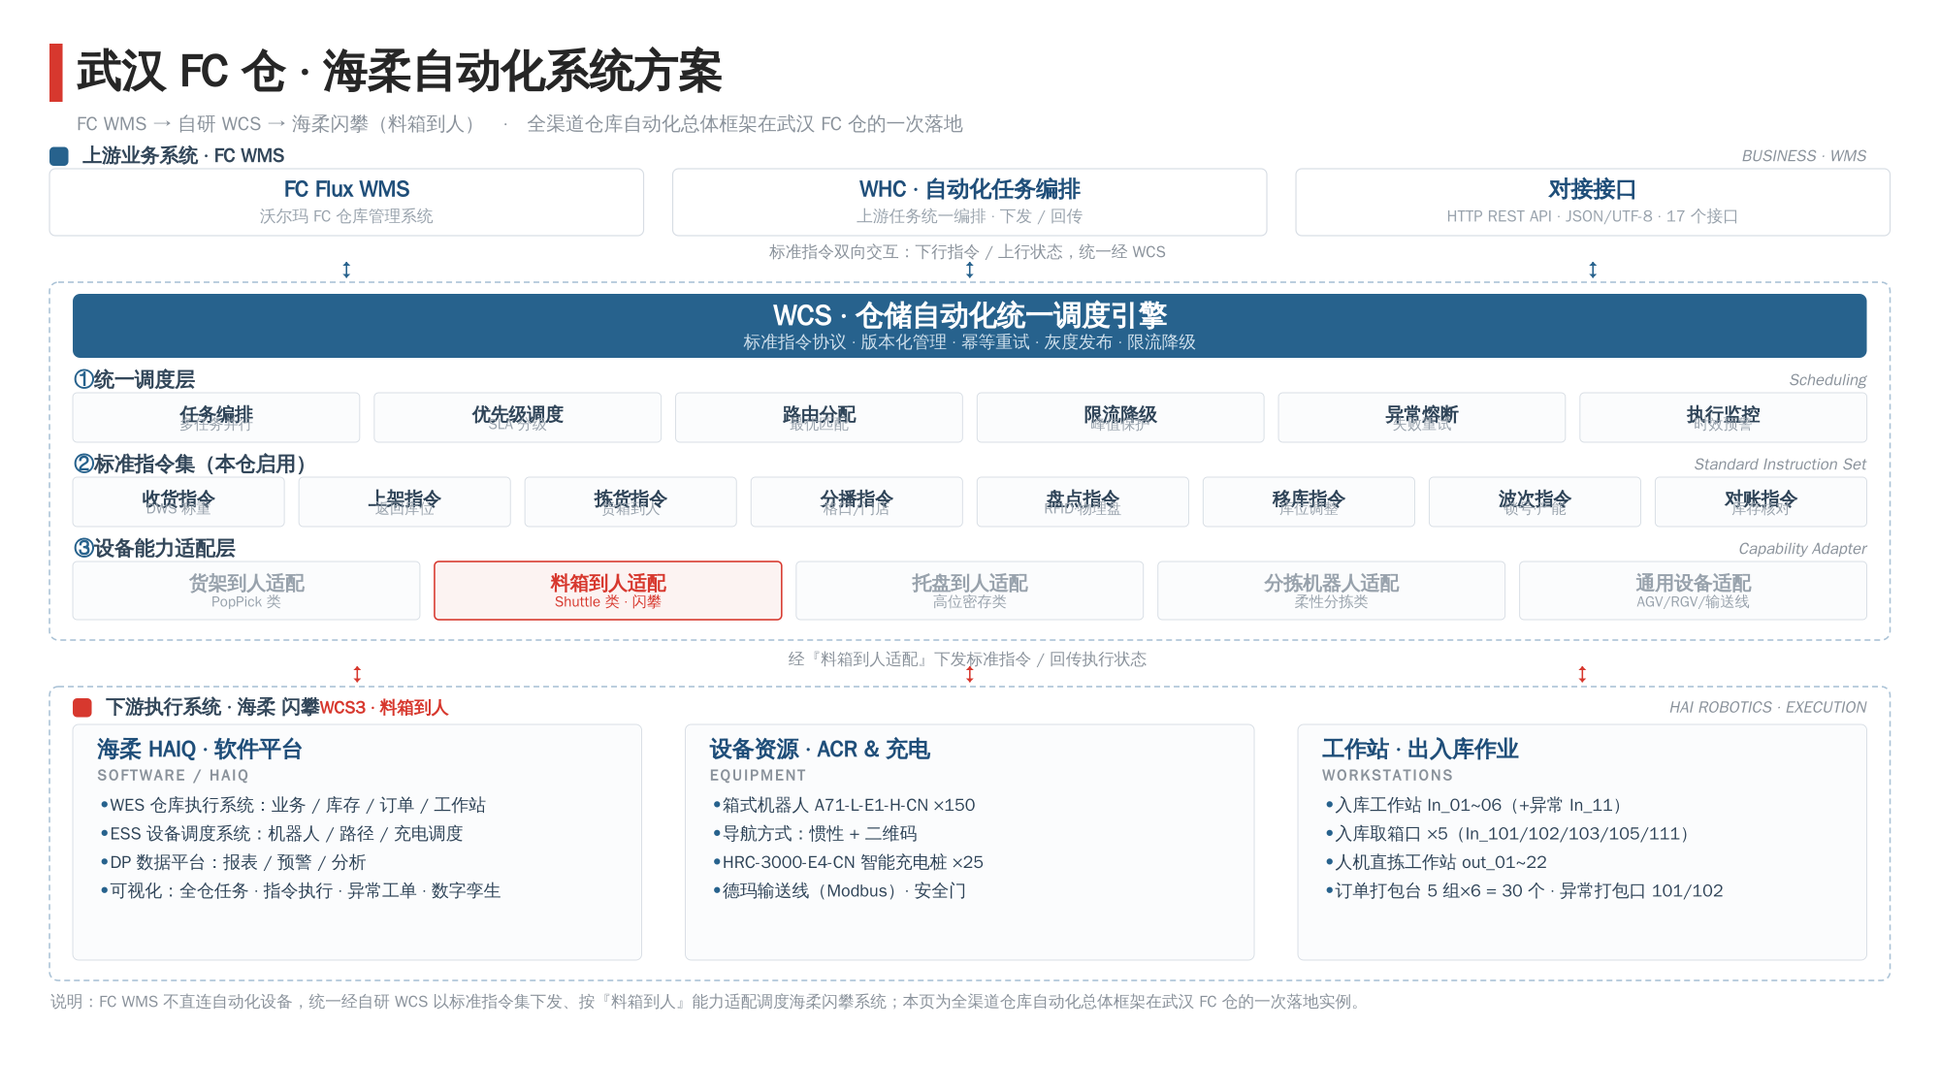
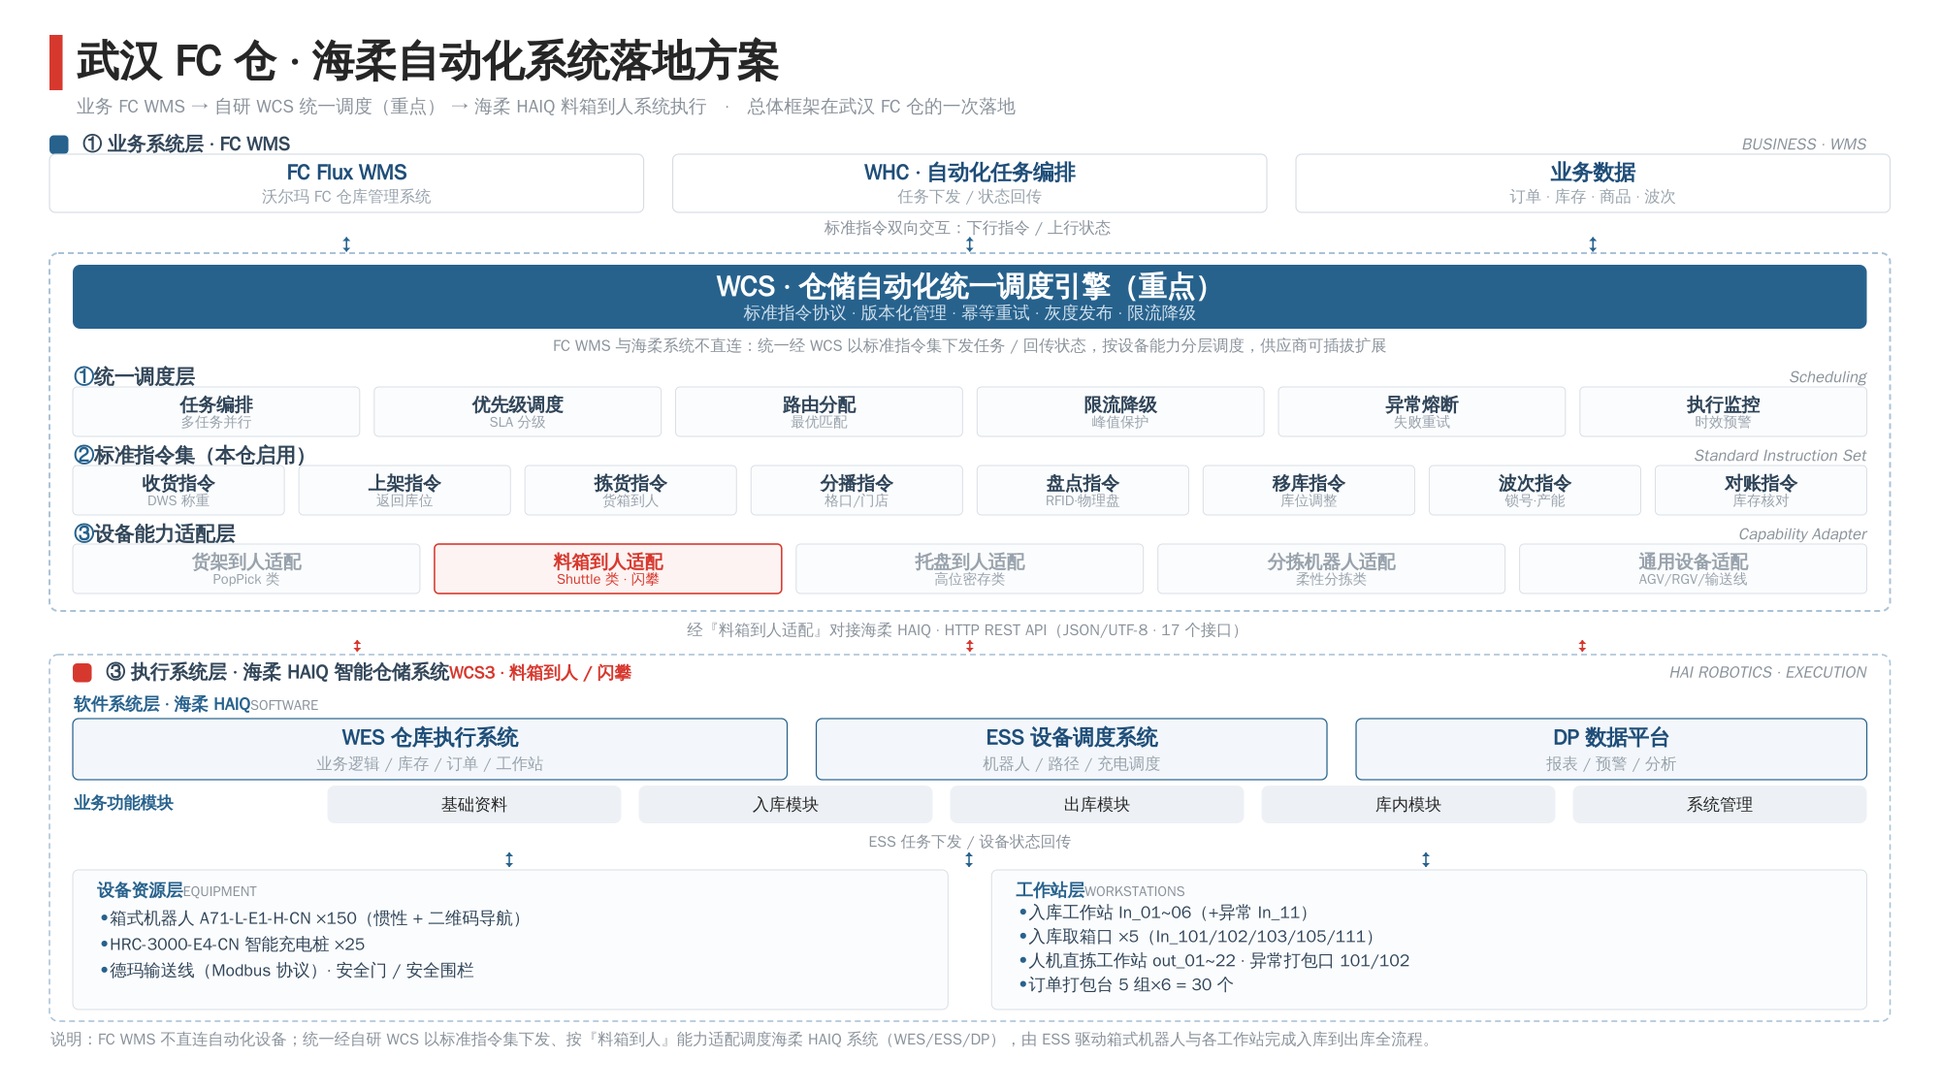
修订落地页：海柔系统改为分层架构（按原始架构图），WCS 强化为重点
- 第三块"海柔 HAIQ 系统"由左中右三栏改为分层：软件系统层(WES/ESS/DP+业务功能模块)
  在上，经 ESS 任务下发/状态回传，连接下方物理层（设备资源层 | 工作站层），还原最初架构图
- 第一块 FC WMS 保持简洁；第二块 WCS 标注"（重点）"，引擎条+协议+价值说明+三子层更详细
- 卡片标题/副标题间距优化；单页 16:9，全部为原生可编辑对象（无图片）

Claude-Session: https://claude.ai/code/session_01DHdNJWfGbJLzTUwy9LxjZR

diff --git a/slide-source/slide.js b/slide-source/slide.js
@@ -1,11 +1,11 @@
-// 武汉 FC 仓 · 海柔自动化系统方案 — FC WMS → WCS → 海柔(闪攀) 三层落地
-// 总体框架（全渠道 WCS 产品方案）在武汉 FC 仓的一次落地实例。风格与总框架一致。
+// 武汉 FC 仓 · 海柔自动化系统落地方案
+// 三层：① FC WMS（业务）② 自研 WCS（统一调度·重点·详细）③ 海柔 HAIQ 系统（按原始架构图分层）
 const CANVAS = { w: 13.333, h: 7.5 };
 const C = {
   INK: "262626", RED: "D7382E", STEEL: "27628D", STEEL_D: "1E4E73",
   NAVY: "1F4E79", CARDT: "2F4458", SUB: "98A2AC", LBL: "8A929B",
   BORD: "D7DDE4", DASH: "AAC2D6", CARDF: "FBFCFD", CHIP: "EDF1F5",
-  SECT: "33475A", ENGSUB: "CFE0EC", REDF: "FCF3F2", BG: "FFFFFF", WHITE: "FFFFFF",
+  SECT: "33475A", ENGSUB: "CFE0EC", REDF: "FCF3F2", HAIQF: "F3F7FB", BG: "FFFFFF", WHITE: "FFFFFF",
 };
 const FONT = "Microsoft YaHei";
 const FONT_EN = "Arial";
@@ -17,120 +17,141 @@ function buildOps() {
   const text = (o) => ops.push({ k: "text", align: "left", valign: "middle", margin: 0, ...o });
   const bullets = (o) => ops.push({ k: "bullets", ...o });
 
-  const X0 = 0.34, XR = 12.99, CW = XR - X0;     // 12.65
-  const inX = 0.50, inW = 12.33, inR = inX + inW; // WCS/Tier3 inner
+  const X0 = 0.34, XR = 12.99, CW = XR - X0;      // 12.65
+  const inX = 0.50, inW = 12.33, inR = inX + inW; // 12.83
 
-  // ===== TITLE =====
-  rect({ x: 0.34, y: 0.30, w: 0.09, h: 0.40, fill: C.RED });
-  text({ x: 0.52, y: 0.26, w: 11.5, h: 0.46, runs: [{ t: "武汉 FC 仓 · 海柔自动化系统方案", font: FONT, size: 22, bold: true, color: C.INK }] });
-  text({ x: 0.52, y: 0.74, w: 12.4, h: 0.22, runs: [{ t: "FC WMS → 自研 WCS → 海柔闪攀（料箱到人）　·　全渠道仓库自动化总体框架在武汉 FC 仓的一次落地", font: FONT, size: 9.5, color: C.LBL }] });
-
-  // section label helper (left zh [+tag] / right en)
-  const sect = (y, zh, en, tag) => {
-    rect({ x: X0, y: y + 0.03, w: 0.13, h: 0.13, r: 0.03, fill: C.STEEL });
+  // section label (square marker + zh [+tag] / right en)
+  const sect = (y, zh, en, tag, mk) => {
+    rect({ x: X0, y: y + 0.03, w: 0.13, h: 0.13, r: 0.03, fill: mk || C.STEEL });
     const runs = [{ t: zh, font: FONT, size: 9.5, bold: true, color: C.SECT }];
-    if (tag) runs.push({ t: "    " + tag, font: FONT, size: 8.5, bold: true, color: C.RED });
-    text({ x: X0 + 0.22, y, w: 9, h: 0.18, runs });
+    if (tag) runs.push({ t: "   " + tag, font: FONT, size: 8.5, bold: true, color: C.RED });
+    text({ x: X0 + 0.22, y, w: 9.5, h: 0.18, runs });
     if (en) text({ x: inR - 3.4, y, w: 3.4, h: 0.18, align: "right", runs: [{ t: en, font: FONT_EN, size: 8, italic: true, color: C.LBL }] });
   };
-  // card grid helper
-  const cardGrid = (items, x0, y, h, n, totW, big) => {
+  // small inner sub-layer label (within 海柔 block)
+  const subLayer = (x, y, w, zh, en) => {
+    text({ x, y, w, h: 0.16, runs: [{ t: zh, font: FONT, size: 8.5, bold: true, color: C.STEEL }, { t: "   " + en, font: FONT_EN, size: 7, color: C.LBL }] });
+  };
+  // card grid
+  const cardGrid = (items, x0, y, h, n, totW, ts) => {
     const g = 0.10, cw = (totW - (n - 1) * g) / n;
     items.forEach((it, i) => {
       const x = x0 + i * (cw + g);
       rect({ x, y, w: cw, h, r: 0.03, fill: it.hi ? C.REDF : C.CARDF, line: { color: it.hi ? C.RED : C.BORD, width: it.hi ? 1.0 : 0.6 } });
-      text({ x, y: y + 0.05, w: cw, h: 0.20, align: "center", runs: [{ t: it.t, font: FONT, size: big ? 9.5 : 9, bold: true, color: it.hi ? C.RED : (it.dim ? C.SUB : C.CARDT) }] });
-      text({ x, y: y + h - 0.21, w: cw, h: 0.17, align: "center", runs: [{ t: it.s, font: FONT, size: 7.3, color: it.hi ? C.RED : C.SUB }] });
+      text({ x, y: y + 0.045, w: cw, h: 0.155, align: "center", runs: [{ t: it.t, font: FONT, size: ts || 9, bold: true, color: it.hi ? C.RED : (it.dim ? C.SUB : C.CARDT) }] });
+      if (it.s) text({ x, y: y + h - 0.165, w: cw, h: 0.13, align: "center", runs: [{ t: it.s, font: FONT, size: 7, color: it.hi ? C.RED : C.SUB }] });
     });
   };
 
-  // ===== TIER 1 — 上游业务系统 / FC WMS =====
-  sect(0.98, "上游业务系统 · FC WMS", "BUSINESS · WMS");
+  // ===== TITLE =====
+  rect({ x: 0.34, y: 0.24, w: 0.09, h: 0.38, fill: C.RED });
+  text({ x: 0.52, y: 0.20, w: 11.6, h: 0.44, runs: [{ t: "武汉 FC 仓 · 海柔自动化系统落地方案", font: FONT, size: 21, bold: true, color: C.INK }] });
+  text({ x: 0.52, y: 0.63, w: 12.4, h: 0.20, runs: [{ t: "业务 FC WMS  →  自研 WCS 统一调度（重点）  →  海柔 HAIQ 料箱到人系统执行　·　总体框架在武汉 FC 仓的一次落地", font: FONT, size: 9, color: C.LBL }] });
+
+  // ===== ① FC WMS =====
+  sect(0.90, "① 业务系统层 · FC WMS", "BUSINESS · WMS");
   const t1 = [
     { t: "FC Flux WMS", s: "沃尔玛 FC 仓库管理系统" },
-    { t: "WHC · 自动化任务编排", s: "上游任务统一编排 · 下发 / 回传" },
-    { t: "对接接口", s: "HTTP REST API · JSON/UTF-8 · 17 个接口" },
+    { t: "WHC · 自动化任务编排", s: "任务下发 / 状态回传" },
+    { t: "业务数据", s: "订单 · 库存 · 商品 · 波次" },
   ];
-  const g1 = 0.20, w1 = (CW - 2 * g1) / 3;
-  const c1ctr = (i) => X0 + i * (w1 + g1) + w1 / 2;
+  const g1 = 0.20, w1 = (CW - 2 * g1) / 3, c1c = (i) => X0 + i * (w1 + g1) + w1 / 2;
   t1.forEach((b, i) => {
     const x = X0 + i * (w1 + g1);
-    rect({ x, y: 1.16, w: w1, h: 0.46, r: 0.04, fill: C.WHITE, line: { color: C.BORD, width: 0.75 } });
-    text({ x, y: 1.20, w: w1, h: 0.20, align: "center", runs: [{ t: b.t, font: FONT, size: 11, bold: true, color: C.NAVY }] });
-    text({ x, y: 1.40, w: w1, h: 0.17, align: "center", runs: [{ t: b.s, font: FONT, size: 8, color: C.SUB }] });
+    rect({ x, y: 1.06, w: w1, h: 0.40, r: 0.04, fill: C.WHITE, line: { color: C.BORD, width: 0.75 } });
+    text({ x, y: 1.09, w: w1, h: 0.19, align: "center", runs: [{ t: b.t, font: FONT, size: 10.5, bold: true, color: C.NAVY }] });
+    text({ x, y: 1.27, w: w1, h: 0.16, align: "center", runs: [{ t: b.s, font: FONT, size: 7.8, color: C.SUB }] });
   });
-  // connector 1
-  text({ x: 2.6, y: 1.66, w: 8.1, h: 0.14, align: "center", runs: [{ t: "标准指令双向交互：下行指令 / 上行状态，统一经 WCS", font: FONT, size: 8, color: C.LBL }] });
-  for (let i = 0; i < 3; i++) line({ x: c1ctr(i), y: 1.80, w: 0, h: 0.11, color: C.STEEL, width: 1, beginArrow: true, endArrow: true });
+  text({ x: 3.0, y: 1.50, w: 7.3, h: 0.13, align: "center", runs: [{ t: "标准指令双向交互：下行指令 / 上行状态", font: FONT, size: 7.8, color: C.LBL }] });
+  for (let i = 0; i < 3; i++) line({ x: c1c(i), y: 1.63, w: 0, h: 0.10, color: C.STEEL, width: 1, beginArrow: true, endArrow: true });
 
-  // ===== TIER 2 — WCS 统一调度引擎 =====
-  rect({ x: X0, y: 1.94, w: CW, h: 2.46, r: 0.06, fill: C.WHITE, line: { color: C.DASH, width: 1, dash: true } });
-  rect({ x: inX, y: 2.02, w: inW, h: 0.44, r: 0.05, fill: C.STEEL });
-  text({ x: inX, y: 2.06, w: inW, h: 0.22, align: "center", runs: [{ t: "WCS · 仓储自动化统一调度引擎", font: FONT, size: 14, bold: true, color: C.WHITE }] });
-  text({ x: inX, y: 2.27, w: inW, h: 0.16, align: "center", runs: [{ t: "标准指令协议 · 版本化管理 · 幂等重试 · 灰度发布 · 限流降级", font: FONT, size: 8.5, color: C.ENGSUB }] });
+  // ===== ② WCS（重点）=====
+  rect({ x: X0, y: 1.74, w: CW, h: 2.46, r: 0.06, fill: C.WHITE, line: { color: C.DASH, width: 1.25, dash: true } });
+  rect({ x: inX, y: 1.82, w: inW, h: 0.44, r: 0.05, fill: C.STEEL });
+  text({ x: inX, y: 1.86, w: inW, h: 0.22, align: "center", runs: [{ t: "WCS · 仓储自动化统一调度引擎（重点）", font: FONT, size: 14, bold: true, color: C.WHITE }] });
+  text({ x: inX, y: 2.07, w: inW, h: 0.16, align: "center", runs: [{ t: "标准指令协议 · 版本化管理 · 幂等重试 · 灰度发布 · 限流降级", font: FONT, size: 8.5, color: C.ENGSUB }] });
+  text({ x: inX, y: 2.30, w: inW, h: 0.15, align: "center", runs: [{ t: "FC WMS 与海柔系统不直连：统一经 WCS 以标准指令集下发任务 / 回传状态，按设备能力分层调度，供应商可插拔扩展", font: FONT, size: 7.8, color: C.LBL }] });
 
-  sect2(ops, 2.52, "①", "统一调度层", "Scheduling", inX, inR, C);
+  sect2(ops, 2.50, "①", "统一调度层", "Scheduling", inX, inR, C);
   cardGrid([
     { t: "任务编排", s: "多任务并行" }, { t: "优先级调度", s: "SLA 分级" }, { t: "路由分配", s: "最优匹配" },
     { t: "限流降级", s: "峰值保护" }, { t: "异常熔断", s: "失败重试" }, { t: "执行监控", s: "时效预警" },
-  ], inX, 2.70, 0.34, 6, inW);
+  ], inX, 2.66, 0.34, 6, inW);
 
-  sect2(ops, 3.10, "②", "标准指令集（本仓启用）", "Standard Instruction Set", inX, inR, C);
+  sect2(ops, 3.04, "②", "标准指令集（本仓启用）", "Standard Instruction Set", inX, inR, C);
   cardGrid([
     { t: "收货指令", s: "DWS 称重" }, { t: "上架指令", s: "返回库位" }, { t: "拣货指令", s: "货箱到人" }, { t: "分播指令", s: "格口/门店" },
     { t: "盘点指令", s: "RFID·物理盘" }, { t: "移库指令", s: "库位调整" }, { t: "波次指令", s: "锁号·产能" }, { t: "对账指令", s: "库存核对" },
-  ], inX, 3.28, 0.34, 8, inW);
+  ], inX, 3.20, 0.34, 8, inW);
 
-  sect2(ops, 3.68, "③", "设备能力适配层", "Capability Adapter", inX, inR, C);
+  sect2(ops, 3.58, "③", "设备能力适配层", "Capability Adapter", inX, inR, C);
   cardGrid([
     { t: "货架到人适配", s: "PopPick 类", dim: true },
     { t: "料箱到人适配", s: "Shuttle 类 · 闪攀", hi: true },
     { t: "托盘到人适配", s: "高位密存类", dim: true },
     { t: "分拣机器人适配", s: "柔性分拣类", dim: true },
     { t: "通用设备适配", s: "AGV/RGV/输送线", dim: true },
-  ], inX, 3.86, 0.40, 5, inW, true);
+  ], inX, 3.74, 0.34, 5, inW);
 
-  // connector 2
-  text({ x: 3.0, y: 4.46, w: 7.3, h: 0.14, align: "center", runs: [{ t: "经『料箱到人适配』下发标准指令 / 回传执行状态", font: FONT, size: 8, color: C.LBL }] });
-  const t3col = (i) => inX + i * ((inW - 0.6) / 3 + 0.30) + (inW - 0.6) / 6;
-  for (let i = 0; i < 3; i++) line({ x: t3col(i), y: 4.58, w: 0, h: 0.11, color: C.RED, width: 1, beginArrow: true, endArrow: true });
+  // connector 2 (WCS -> 海柔 HAIQ)
+  text({ x: 2.6, y: 4.26, w: 8.1, h: 0.14, align: "center", runs: [{ t: "经『料箱到人适配』对接海柔 HAIQ · HTTP REST API（JSON/UTF-8 · 17 个接口）", font: FONT, size: 7.8, color: C.LBL }] });
+  const haX = (i) => inX + i * ((inW - 0.6) / 3 + 0.30) + (inW - 0.6) / 6;
+  for (let i = 0; i < 3; i++) line({ x: haX(i), y: 4.40, w: 0, h: 0.08, color: C.RED, width: 1, beginArrow: true, endArrow: true });
 
-  // ===== TIER 3 — 海柔闪攀 料箱到人执行系统 =====
-  rect({ x: X0, y: 4.72, w: CW, h: 2.02, r: 0.06, fill: C.WHITE, line: { color: C.DASH, width: 1, dash: true } });
-  rect({ x: X0 + 0.16, y: 4.80, w: 0.13, h: 0.13, r: 0.03, fill: C.RED });
-  text({ x: X0 + 0.38, y: 4.77, w: 9, h: 0.18, runs: [
-    { t: "下游执行系统 · 海柔 闪攀", font: FONT, size: 9.5, bold: true, color: C.SECT },
-    { t: "    WCS3 · 料箱到人", font: FONT, size: 8.5, bold: true, color: C.RED },
-  ] });
-  text({ x: inR - 3.4, y: 4.77, w: 3.4, h: 0.18, align: "right", runs: [{ t: "HAI ROBOTICS · EXECUTION", font: FONT_EN, size: 8, italic: true, color: C.LBL }] });
+  // ===== ③ 海柔 HAIQ 系统（分层，按原始架构图）=====
+  rect({ x: X0, y: 4.50, w: CW, h: 2.52, r: 0.06, fill: C.WHITE, line: { color: C.DASH, width: 1, dash: true } });
+  rect({ x: X0 + 0.16, y: 4.56, w: 0.13, h: 0.13, r: 0.03, fill: C.RED });
+  text({ x: X0 + 0.38, y: 4.53, w: 9.5, h: 0.18, runs: [
+    { t: "③ 执行系统层 · 海柔 HAIQ 智能仓储系统", font: FONT, size: 9.5, bold: true, color: C.SECT },
+    { t: "   WCS3 · 料箱到人 / 闪攀", font: FONT, size: 8.5, bold: true, color: C.RED } ] });
+  text({ x: inR - 3.4, y: 4.53, w: 3.4, h: 0.18, align: "right", runs: [{ t: "HAI ROBOTICS · EXECUTION", font: FONT_EN, size: 8, italic: true, color: C.LBL }] });
 
-  const colW = (inW - 0.6) / 3;
-  const t3 = [
-    { t: "海柔 HAIQ · 软件平台", en: "SOFTWARE / HAIQ", rows: [
-      "WES 仓库执行系统：业务 / 库存 / 订单 / 工作站", "ESS 设备调度系统：机器人 / 路径 / 充电调度",
-      "DP 数据平台：报表 / 预警 / 分析", "可视化：全仓任务 · 指令执行 · 异常工单 · 数字孪生"] },
-    { t: "设备资源 · ACR & 充电", en: "EQUIPMENT", rows: [
-      "箱式机器人 A71-L-E1-H-CN ×150", "导航方式：惯性 + 二维码",
-      "HRC-3000-E4-CN 智能充电桩 ×25", "德玛输送线（Modbus）· 安全门"] },
-    { t: "工作站 · 出入库作业", en: "WORKSTATIONS", rows: [
-      "入库工作站 In_01~06（+异常 In_11）", "入库取箱口 ×5（In_101/102/103/105/111）",
-      "人机直拣工作站 out_01~22", "订单打包台 5 组×6 = 30 个 · 异常打包口 101/102"] },
+  // 软件系统层：WES（宽）/ ESS / DP
+  subLayer(inX, 4.76, 6, "软件系统层 · 海柔 HAIQ", "SOFTWARE");
+  const sw = [
+    { t: "WES 仓库执行系统", s: "业务逻辑 / 库存 / 订单 / 工作站", w: 4.91 },
+    { t: "ESS 设备调度系统", s: "机器人 / 路径 / 充电调度", w: 3.51 },
+    { t: "DP 数据平台", s: "报表 / 预警 / 分析", w: 3.51 },
   ];
-  t3.forEach((col, i) => {
-    const x = inX + i * (colW + 0.30);
-    rect({ x, y: 4.98, w: colW, h: 1.62, r: 0.04, fill: C.CARDF, line: { color: C.BORD, width: 0.6 } });
-    text({ x: x + 0.16, y: 5.04, w: colW - 0.3, h: 0.22, runs: [{ t: col.t, font: FONT, size: 11, bold: true, color: C.NAVY }] });
-    text({ x: x + 0.16, y: 5.26, w: colW - 0.3, h: 0.14, runs: [{ t: col.en, font: FONT_EN, size: 7.5, bold: true, color: C.LBL, sp: 1 }] });
-    bullets({ x: x + 0.18, y: 5.46, w: colW - 0.34, h: 1.05, font: FONT, size: 8.6, color: C.CARDT, spaceAfter: 4, items: col.rows });
+  let sx = inX;
+  sw.forEach((b) => {
+    rect({ x: sx, y: 4.94, w: b.w, h: 0.42, r: 0.04, fill: C.HAIQF, line: { color: C.STEEL, width: 0.8 } });
+    text({ x: sx, y: 4.97, w: b.w, h: 0.20, align: "center", runs: [{ t: b.t, font: FONT, size: 10.5, bold: true, color: C.NAVY }] });
+    text({ x: sx, y: 5.17, w: b.w, h: 0.16, align: "center", runs: [{ t: b.s, font: FONT, size: 7.8, color: C.SUB }] });
+    sx += b.w + 0.20;
   });
+  // 业务功能模块 chips
+  text({ x: inX, y: 5.42, w: 1.7, h: 0.20, runs: [{ t: "业务功能模块", font: FONT, size: 8.2, bold: true, color: C.STEEL }] });
+  const mods = ["基础资料", "入库模块", "出库模块", "库内模块", "系统管理"];
+  const mx0 = inX + 1.75, mtot = inR - mx0, mg = 0.12, mw = (mtot - (mods.length - 1) * mg) / mods.length;
+  mods.forEach((m, i) => {
+    const x = mx0 + i * (mw + mg);
+    rect({ x, y: 5.40, w: mw, h: 0.26, r: 0.05, fill: C.CHIP });
+    text({ x, y: 5.40, w: mw, h: 0.26, align: "center", runs: [{ t: m, font: FONT, size: 8.2, color: C.INK }] });
+  });
+  // connector software -> physical
+  text({ x: inX, y: 5.72, w: inW, h: 0.13, align: "center", runs: [{ t: "ESS 任务下发 / 设备状态回传", font: FONT, size: 7.6, color: C.LBL }] });
+  for (const cx of [3.5, 6.66, 9.8]) line({ x: cx, y: 5.86, w: 0, h: 0.10, color: C.STEEL, width: 1, beginArrow: true, endArrow: true });
+
+  // 物理层：设备资源层 | 工作站层
+  const pg = 0.30, pw = (inW - pg) / 2, pL = inX, pR = inX + pw + pg;
+  rect({ x: pL, y: 5.98, w: pw, h: 0.96, r: 0.04, fill: C.CARDF, line: { color: C.BORD, width: 0.6 } });
+  rect({ x: pR, y: 5.98, w: pw, h: 0.96, r: 0.04, fill: C.CARDF, line: { color: C.BORD, width: 0.6 } });
+  subLayer(pL + 0.16, 6.04, pw - 0.3, "设备资源层", "EQUIPMENT");
+  subLayer(pR + 0.16, 6.04, pw - 0.3, "工作站层", "WORKSTATIONS");
+  bullets({ x: pL + 0.18, y: 6.24, w: pw - 0.34, h: 0.66, font: FONT, size: 8.4, color: C.CARDT, spaceAfter: 3, items: [
+    "箱式机器人 A71-L-E1-H-CN ×150（惯性 + 二维码导航）", "HRC-3000-E4-CN 智能充电桩 ×25",
+    "德玛输送线（Modbus 协议）· 安全门 / 安全围栏" ] });
+  bullets({ x: pR + 0.18, y: 6.20, w: pw - 0.34, h: 0.74, font: FONT, size: 8.4, color: C.CARDT, spaceAfter: 2, items: [
+    "入库工作站 In_01~06（+异常 In_11）", "入库取箱口 ×5（In_101/102/103/105/111）",
+    "人机直拣工作站 out_01~22 · 异常打包口 101/102", "订单打包台 5 组×6 = 30 个" ] });
 
   // ===== NOTE =====
-  text({ x: X0, y: 6.82, w: CW, h: 0.4, valign: "top", runs: [{ t: "说明：FC WMS 不直连自动化设备，统一经自研 WCS 以标准指令集下发、按『料箱到人』能力适配调度海柔闪攀系统；本页为全渠道仓库自动化总体框架在武汉 FC 仓的一次落地实例。", font: FONT, size: 8, color: C.LBL }] });
+  text({ x: X0, y: 7.08, w: CW, h: 0.3, valign: "top", runs: [{ t: "说明：FC WMS 不直连自动化设备；统一经自研 WCS 以标准指令集下发、按『料箱到人』能力适配调度海柔 HAIQ 系统（WES/ESS/DP），由 ESS 驱动箱式机器人与各工作站完成入库到出库全流程。", font: FONT, size: 7.8, color: C.LBL }] });
 
   return ops;
 }
 
-// WCS sublayer label (①②③ + english) — kept separate to reuse exact framework style
 function sect2(ops, y, num, zh, en, inX, inR, C) {
   ops.push({ k: "text", align: "left", valign: "middle", margin: 0, x: inX, y, w: 6, h: 0.18, runs: [
     { t: num + "  ", font: FONT, size: 10, bold: true, color: C.STEEL }, { t: zh, font: FONT, size: 10, bold: true, color: C.SECT }] });

diff --git a/slide-source/README.md b/slide-source/README.md
@@ -3,15 +3,17 @@
 本目录生成 `../武汉FC仓海柔自动化系统方案.pptx`（16:9 宽屏，单页）。
 **全部元素均为 PowerPoint 原生可编辑对象（形状 / 文本框 / 连线 / 项目符号），无任何图片。**
 
-本页是「全渠道仓库自动化总体框架」在武汉 FC 仓的**一次落地**，主线为
-**FC WMS → 自研 WCS → 海柔闪攀（料箱到人）**，三层自上而下：
+本页是「全渠道仓库自动化总体框架」在武汉 FC 仓的**一次落地**，主线
+**FC WMS → 自研 WCS → 海柔 HAIQ 系统**，自上而下三大块：
 
-1. **上游业务系统 · FC WMS**：FC Flux WMS / WHC 自动化任务编排 / 对接接口（17 个）。
-2. **WCS · 仓储自动化统一调度引擎**：①统一调度层 ②标准指令集（本仓启用）③设备能力适配层；
-   其中"料箱到人适配（Shuttle 类）→ 闪攀"为本仓启用的能力，红色高亮。
-3. **下游执行系统 · 海柔闪攀（WCS3 · 料箱到人）**：海柔 HAIQ（WES/ESS/DP）、
-   设备资源（A71-L-E1-H-CN ×150、HRC 充电桩 ×25、德玛输送线、安全门）、
-   工作站（In_01~06、取箱口 ×5、out_01~22、打包台 30、异常口 101/102）。
+1. **① 业务系统层 · FC WMS**（简洁）：FC Flux WMS / WHC 自动化任务编排 / 业务数据。
+2. **② WCS · 仓储自动化统一调度引擎（重点·详细）**：①统一调度层 ②标准指令集（本仓启用）
+   ③设备能力适配层；其中"料箱到人适配（Shuttle 类）→ 闪攀"为本仓启用能力，红色高亮。
+   FC WMS 与海柔系统不直连，统一经 WCS 标准指令集下发 / 回传。
+3. **③ 执行系统层 · 海柔 HAIQ 系统**（按最初的架构图分层，**非左中右三栏**）：
+   - 软件系统层：WES 仓库执行系统（核心）/ ESS 设备调度系统 / DP 数据平台 + 业务功能模块（基础资料·入库·出库·库内·系统管理）
+   - ↓ ESS 任务下发 / 设备状态回传
+   - 物理层：设备资源层（A71-L-E1-H-CN ×150、HRC ×25、德玛输送线、安全门）｜ 工作站层（In_01~06、取箱口 ×5、out_01~22、打包台 30、异常口 101/102）
 
 > 配套文件 `../全渠道仓库自动化接入WCS产品方案.pptx` 为「总体框架」总览页，与本落地页成对使用。
 
